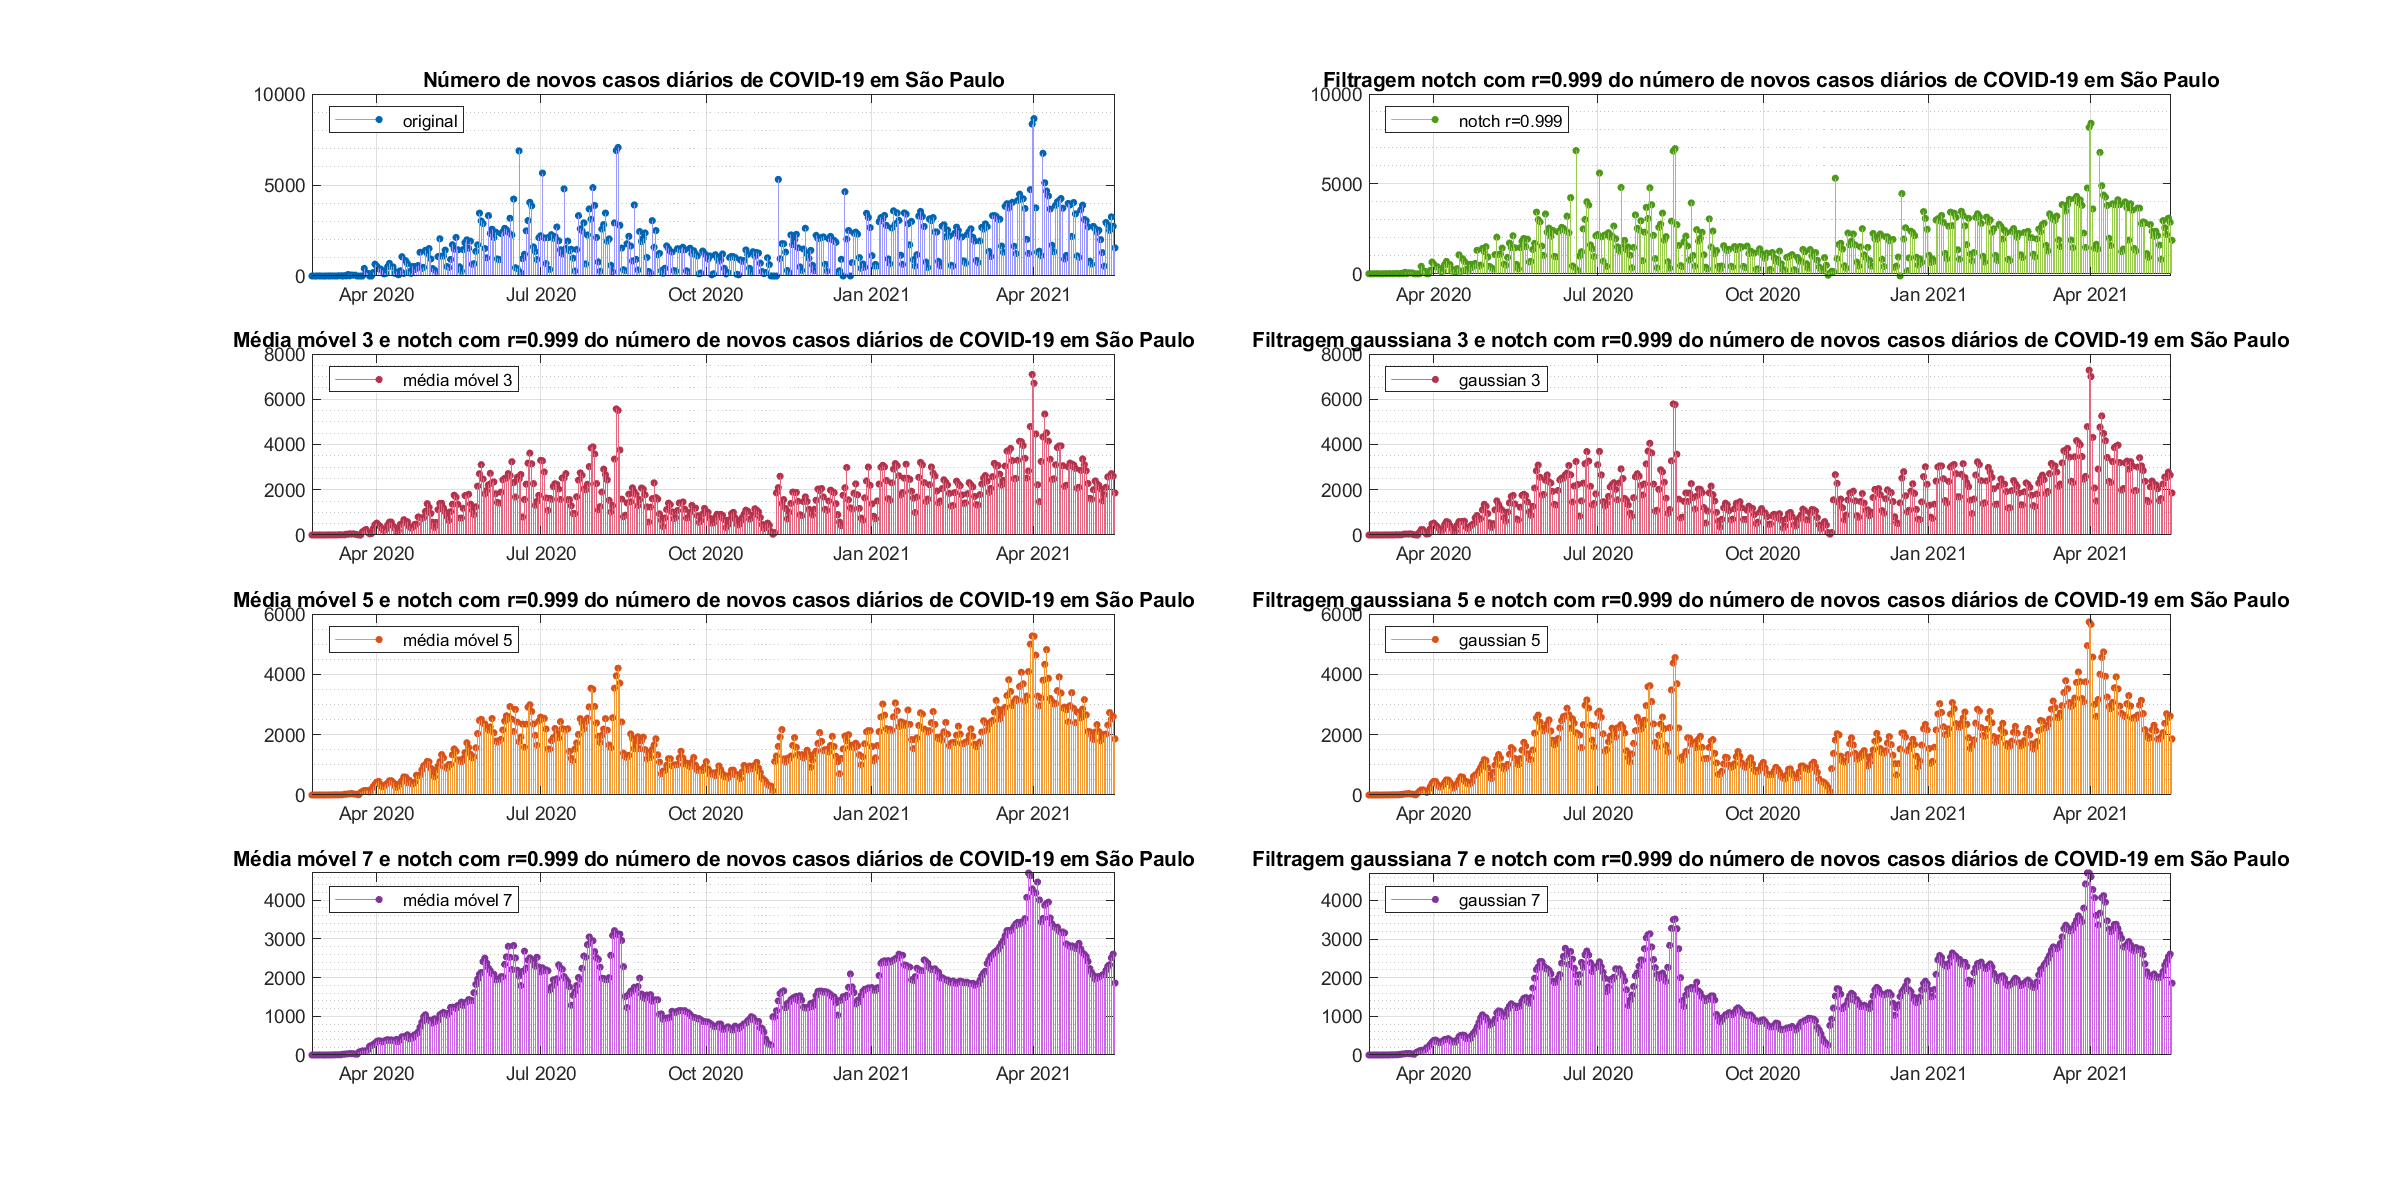
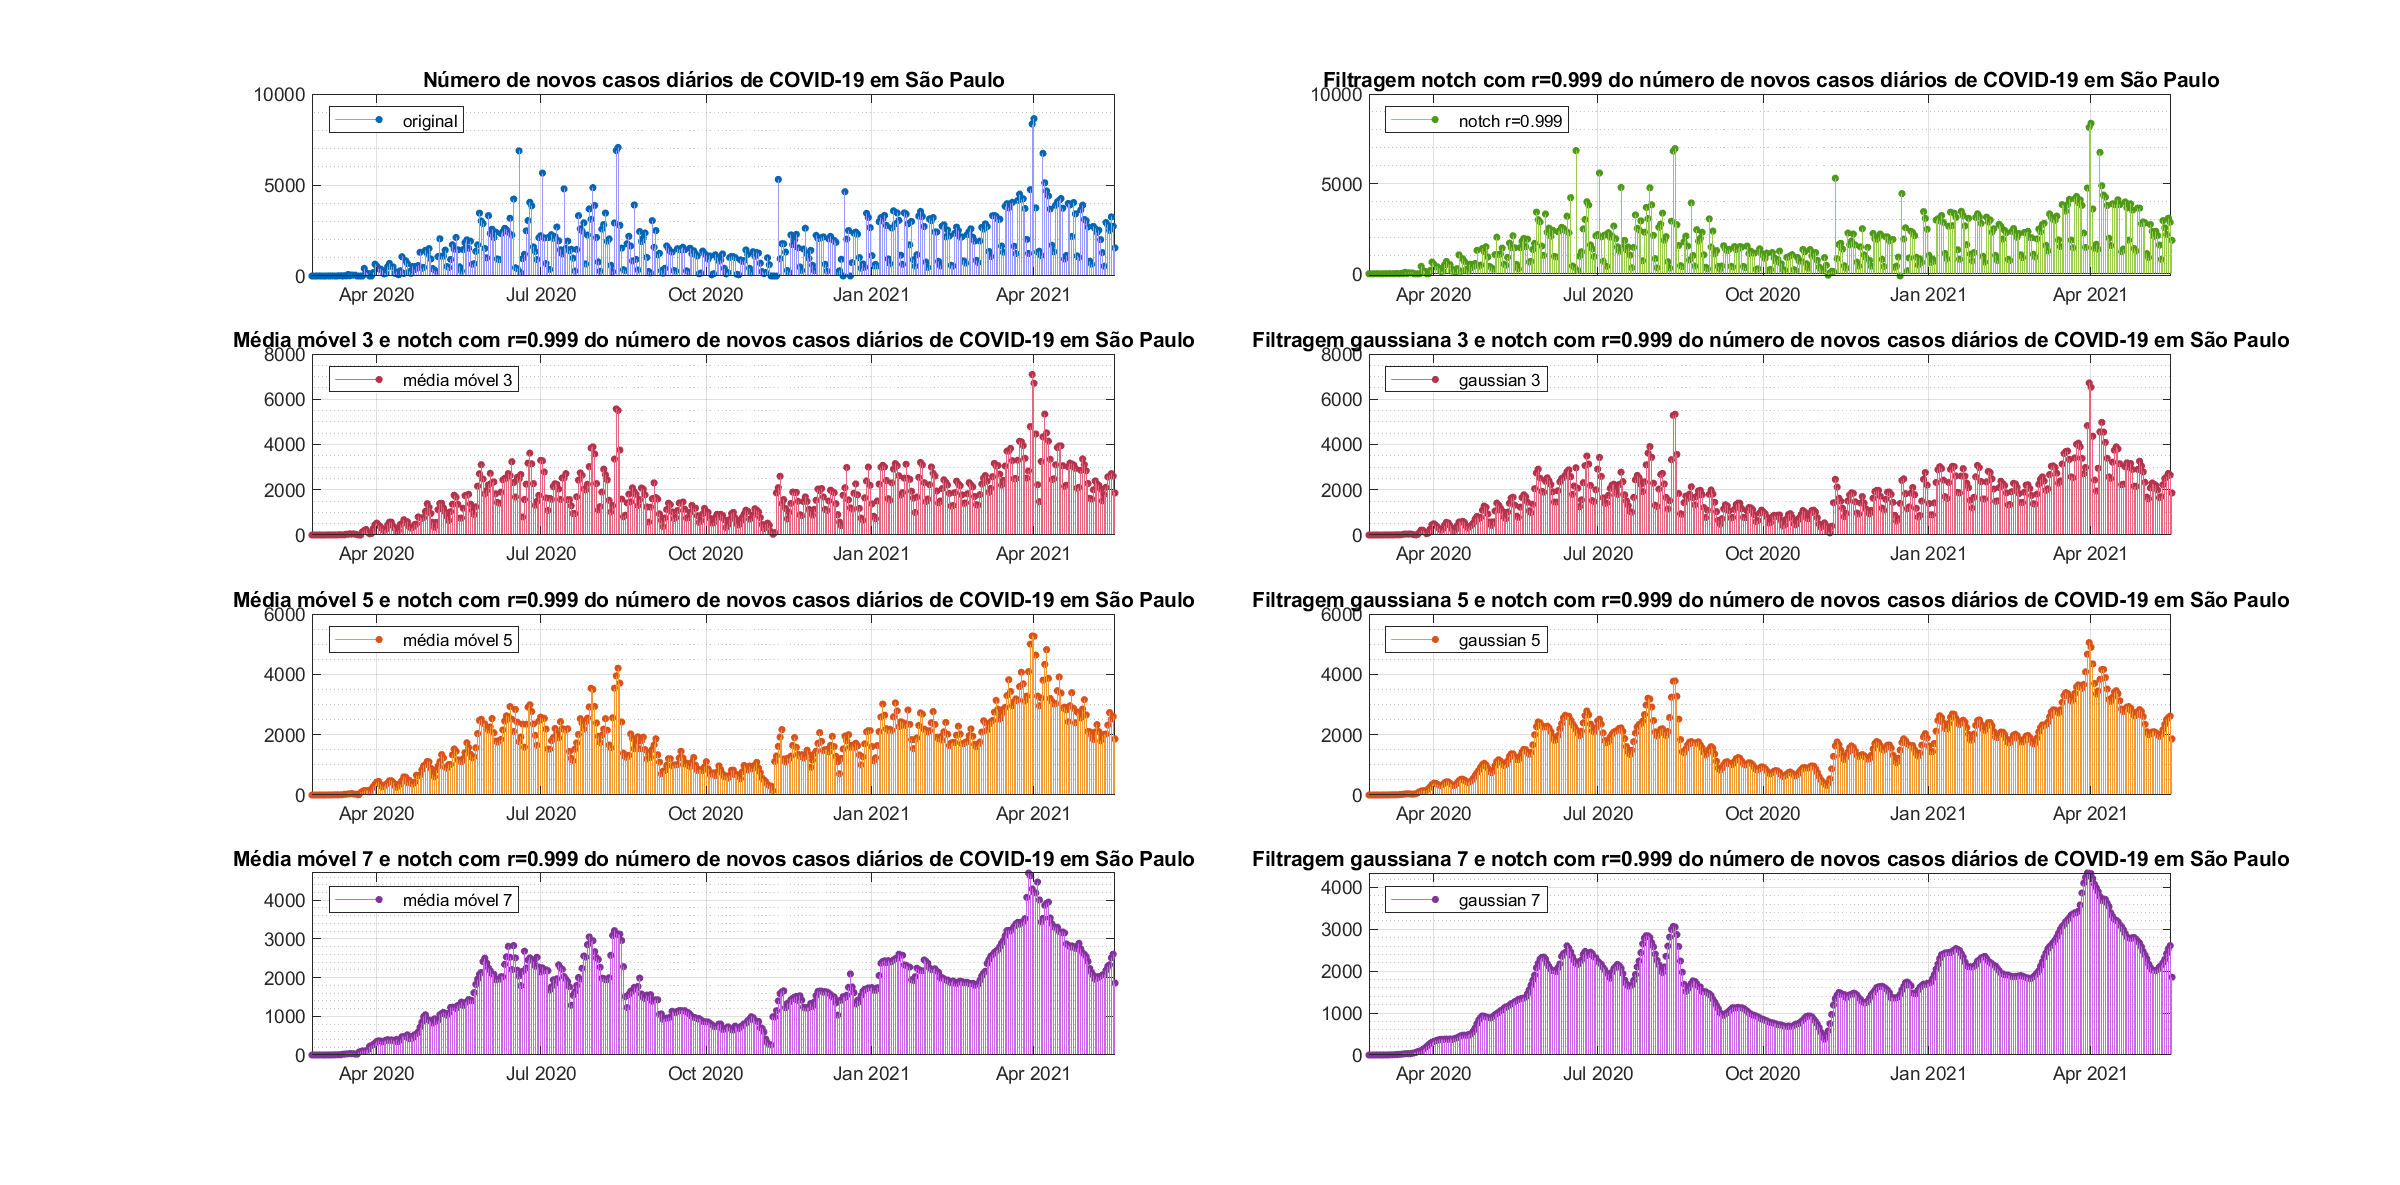
Adiciona correlograma com intervalos de confiança

Changed region(s): [[0.5312, 0.7181, 0.9062, 0.8743], [0.625, 0.3747, 0.9062, 0.4371], [0.625, 0.562, 0.9062, 0.6557]]

diff --git a/scripts/conv_gaussian_filter.m b/scripts/conv_gaussian_filter.m
@@ -14,7 +14,7 @@ function y = conv_gaussian_filter(x, two_std_dev_plus_one)
 
     std_dev = (two_std_dev_plus_one - 1) / 2;
 
-    filter_size = two_std_dev_plus_one + 0;
+    filter_size = two_std_dev_plus_one + 4;
     filter_size_minus_1_half = (filter_size - 1) / 2;
 
     [signal_size, ~] = size(x);
